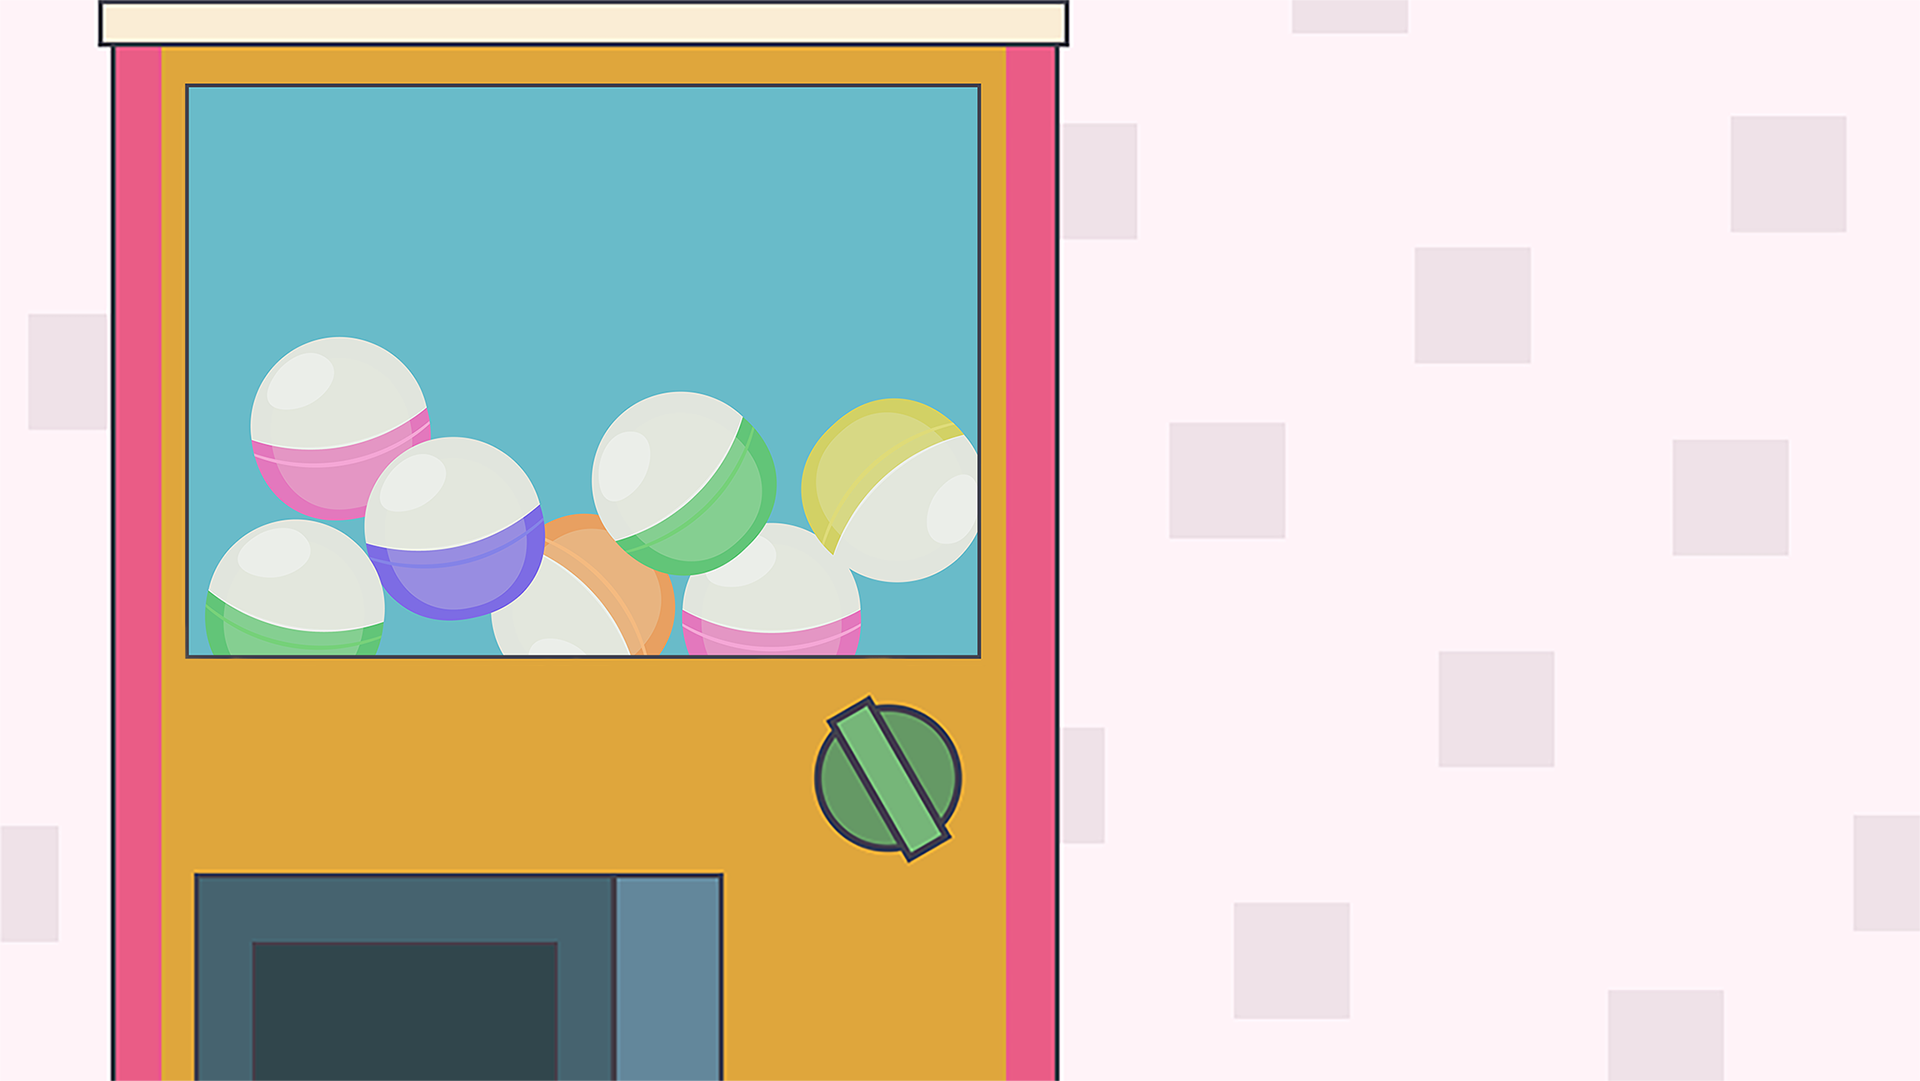
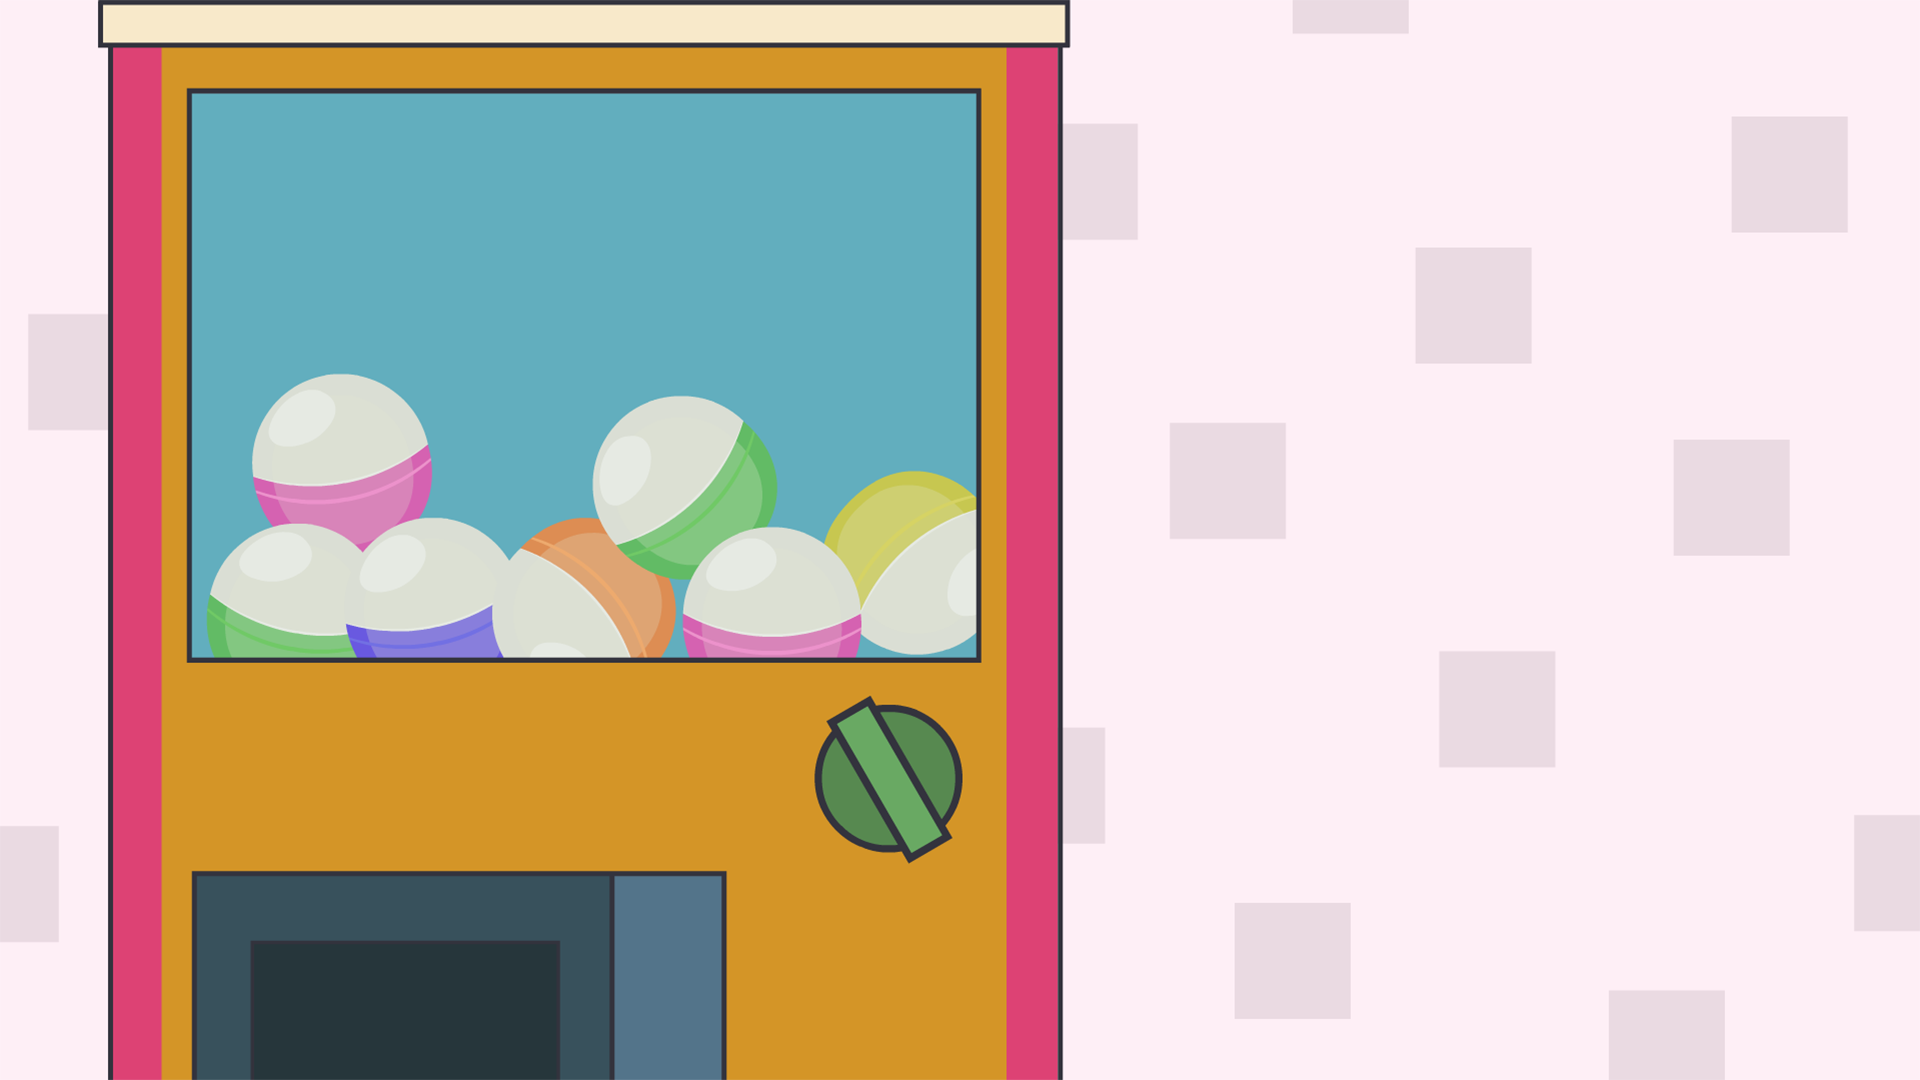
feat:  AnimationSprite as background

diff --git a/src/games/game_26/scenes/GameScene.js b/src/games/game_26/scenes/GameScene.js
@@ -31,45 +31,43 @@ export default class GameScene extends BasicScene {
 
         //User need to press the Start Button to reach here, all audio need to be play after the first user touch event in mobile device.
 
-        this.buildBg('backgroundGamePlay');
+        // this.buildBg('backgroundGamePlay');
+        this.eggTwistingMachineSprite = new GameSprite(this, 960, 540, 'eggTwistingMachineTexture');
         this.progressLoader = new LoadProgress(this);
 
         const soundFiles = {
-            "voice0":require("../assets/audio/voice/0.mp3"),
-            "voice1":require("../assets/audio/voice/1.mp3"),
-            "voice2":require("../assets/audio/voice/2.mp3"),
-            "voice3":require("../assets/audio/voice/3.mp3"),
-            "voice4":require("../assets/audio/voice/4.mp3"),
-            "voice5":require("../assets/audio/voice/5.mp3"),
-            "voice6":require("../assets/audio/voice/6.mp3"),
-            "voice7":require("../assets/audio/voice/7.mp3"),
-            "voice8":require("../assets/audio/voice/8.mp3"),
-            "voice9":require("../assets/audio/voice/9.mp3"),
-            "voice10":require("../assets/audio/voice/10.mp3"),
-            "voice11":require("../assets/audio/voice/11.mp3"),
-            "voice12":require("../assets/audio/voice/12.mp3"),
-            "voice13":require("../assets/audio/voice/13.mp3"),
-            "voice14":require("../assets/audio/voice/14.mp3"),
-            "voice15":require("../assets/audio/voice/15.mp3"),
-            "voice16":require("../assets/audio/voice/16.mp3"),
-            "voice17":require("../assets/audio/voice/17.mp3"),
-            "voice18":require("../assets/audio/voice/18.mp3"),
-            "voice19":require("../assets/audio/voice/19.mp3"),
+            "voice0": require("../assets/audio/voice/0.mp3"),
+            "voice1": require("../assets/audio/voice/1.mp3"),
+            "voice2": require("../assets/audio/voice/2.mp3"),
+            "voice3": require("../assets/audio/voice/3.mp3"),
+            "voice4": require("../assets/audio/voice/4.mp3"),
+            "voice5": require("../assets/audio/voice/5.mp3"),
+            "voice6": require("../assets/audio/voice/6.mp3"),
+            "voice7": require("../assets/audio/voice/7.mp3"),
+            "voice8": require("../assets/audio/voice/8.mp3"),
+            "voice9": require("../assets/audio/voice/9.mp3"),
+            "voice10": require("../assets/audio/voice/10.mp3"),
+            "voice11": require("../assets/audio/voice/11.mp3"),
+            "voice12": require("../assets/audio/voice/12.mp3"),
+            "voice13": require("../assets/audio/voice/13.mp3"),
+            "voice14": require("../assets/audio/voice/14.mp3"),
+            "voice15": require("../assets/audio/voice/15.mp3"),
+            "voice16": require("../assets/audio/voice/16.mp3"),
+            "voice17": require("../assets/audio/voice/17.mp3"),
+            "voice18": require("../assets/audio/voice/18.mp3"),
+            "voice19": require("../assets/audio/voice/19.mp3"),
         }
         this.preloadFromArr({ sound: soundFiles });
     }
 
-    create() {
-
-        super.create();
-
+    create(data) {
+        console.log(data);
         this.sys.game.globals.gtag.event(`game_${this.sys.game.globals.gameStageIndex}_start`, { 'event_category': 'js_games', 'event_label': 'Game Start' });
 
         createEggTwistingMachineAnimation(this.anims);
         createStarAnimation(this.anims);
 
-        this.paintGameScene();
-
+        this.paintGameScene(data);
     }
 
 
@@ -109,29 +107,27 @@ export default class GameScene extends BasicScene {
      * paint all game ui element in this scene
      * 绘制GameScene的所有Ui元素
      */
-    paintGameScene() {
+    paintGameScene(data) {
 
         this.gameLayer = this.add.layer().setDepth(1);
         this.uiLayer = this.add.layer().setDepth(0);
 
         this.answerArea = new AnswerArea(this, this.generateQuestion());
 
-        let eggTwistingMachineSprite = new GameSprite(this, 960, 540, 'eggTwistingMachineTexture');
-
         if (this.hasGameChance == undefined) {
-            this.playEggAnimation(eggTwistingMachineSprite, this.answerArea, this.questionIndex);
+            this.playEggAnimation(this.eggTwistingMachineSprite, this.answerArea, this.questionIndex);
         } else {
             if (this.hasGameChance) {
                 this.add.image(583, 372, 'questionPicture' + this.questionIndex).setScale(0.5);
-                this.answerArea.showDisplay();
+                this.answerArea.showDisplay(data);
             }
             else {
-                this.playEggAnimation(eggTwistingMachineSprite, this.answerArea, this.questionIndex);
+                this.playEggAnimation(this.eggTwistingMachineSprite, this.answerArea, this.questionIndex);
             }
         }
 
 
-        this.uiLayer.add([this.buildBg('backgroundGamePlay'), eggTwistingMachineSprite]);
+        this.uiLayer.add([this.buildBg('backgroundGamePlay'), this.eggTwistingMachineSprite]);
         this.gameLayer.add([this.answerArea]);
     }
 
@@ -195,41 +191,53 @@ export default class GameScene extends BasicScene {
     }
 
     paintGameSuccess() {
-        GameManager.getInstance().updateGameQuestionNumberList(this.questionIndex);
-        GameManager.getInstance().updateGamePlayTotal((value) => {
-            this.time.addEvent({
-                delay: 10000,
-                callback: () => this.scene.start(value ? 'Game' : 'End')
-            })
-        });
-
-
         this.sound.play('answerCorrectEffectSound');
-        this.sound.play('gameWinEffectSound')
-        this.sound.play('voice' + this.questionIndex);
+
+        const gameWinEffectSound = this.sound.add('gameWinEffectSound');
+        const questionIndexVoice = this.sound.add('voice' + this.questionIndex);
+
+        gameWinEffectSound.once('complete', () => {
+            questionIndexVoice.play();
+        })
+
+        questionIndexVoice.once('complete', () => {
+            GameManager.getInstance().updateGameQuestionNumberList(this.questionIndex);
+            GameManager.getInstance().updateGamePlayTotal((value) => {
+                this.scene.start(value ? 'Game' : 'End');
+            });
+        })
+
+        gameWinEffectSound.play();
     }
 
 
     paintGameFailed() {
+        const answerErrorEffectSound = this.sound.add('answerErrorEffectSound');
 
-        let _isFirstError = null;
+        answerErrorEffectSound.once('complete', () => {
+            GameManager.getInstance().setGameQuestionError(this.questionIndex, (isFirstError, value) => {
+                if (!isFirstError) {
+                    const gameLoseEffectSound = this.sound.add('gameLoseEffectSound');
 
-        GameManager.getInstance().setGameQuestionError(this.questionIndex, (isFirstError, value) => {
+                    gameLoseEffectSound.once('complete', () => {
+                        const questionIndexVoice = this.sound.add('voice' + this.questionIndex);
 
-            _isFirstError = isFirstError;
-            console.log({ isLastQuestion: value })
-            this.time.addEvent({
-                delay: isFirstError ? 2000 : 10000,
-                callback: () => value ? this.scene.start('End') : this.scene.restart('Game')
-            });
-        }
-        );
+                        questionIndexVoice.once('complete', () => {
+                            value ? this.scene.start('End') : this.scene.restart('Game');
+                        })
+                        this.answerArea.showCurrentAnswer(this, questionIndexVoice);
+                    });
 
-        this.sound.play('answerErrorEffectSound');
-        if (!_isFirstError) {
-            this.sound.play('gameLoseEffectSound');
-            this.answerArea.showCurrentAnswer(this, this.questionIndex);
-        }
+                    gameLoseEffectSound.play();
+                }
+                else {
+                    value ? this.scene.start('End') : this.scene.restart({ y: 140 });
+                }
+            }
+            );
+        })
+
+        answerErrorEffectSound.play();
     }
 
 

diff --git a/src/games/game_26/components/AnswerArea.js b/src/games/game_26/components/AnswerArea.js
@@ -40,8 +40,6 @@ export default class AnswerArea extends Phaser.GameObjects.Container {
 
         points = this.ShufflePosition(points);
 
-        // console.log({ points })
-
         let container = scene.add.container(0, 1200);
 
         const prepositionIndexPosition = phrases.indexOf(preposition);
@@ -50,11 +48,6 @@ export default class AnswerArea extends Phaser.GameObjects.Container {
         let phraseLabelBoxPoints = Array.from(points);
         phrases.splice(prepositionIndexPosition, 1);
         phraseLabelBoxPoints.splice(prepositionIndexPosition, 1);
-
-        // console.log({phrases})
-        // console.log({ points: points })
-        // console.log({ prepositionLabelBoxPoint: prepositionLabelBoxPoint })
-        // console.log({ phraseLabelBoxPoints: phraseLabelBoxPoints });
 
         if (prepositionLabelBoxPoint != null) {
             container.add(new PrepositionLabelBox(scene, prepositionLabelBoxPoint, preposition, this.textStyle, gameObject));
@@ -117,16 +110,16 @@ export default class AnswerArea extends Phaser.GameObjects.Container {
         });
     }
 
-    showDisplay() {
+    showDisplay(data) {
         this.answerPanel.setPosition(1000, 900);
-        this.phraseLabelsContainer.setPosition(0, 0);
+        this.phraseLabelsContainer.setPosition(0, data.y);
 
         this.SetEnableInput();
     }
 
-    showCurrentAnswer(scene,questionIndex) {
+    showCurrentAnswer(scene,questionIndexVoice) {
         console.log("showCurrentAnswer");
-        this.answerPanel.setCurrentAnswer(scene,questionIndex)
+        this.answerPanel.setCurrentAnswer(scene,questionIndexVoice)
     }
 
     SetEnableInput() {

diff --git a/src/games/game_26/components/AnswerPanel.js b/src/games/game_26/components/AnswerPanel.js
@@ -88,8 +88,6 @@ export default class AnswerPanel extends Phaser.GameObjects.Container {
             new GameSprite(scene, this.labelText.x + this.labelText.displayWidth / 2, this.labelText.y, 'uiError');
         errorSprite.setScale(0.8);
 
-        console.log("errorSprite:%o", this.errorSprite);
-
         scene.time.addEvent({
             delay: 2000,
             callback: () => {
@@ -118,12 +116,12 @@ export default class AnswerPanel extends Phaser.GameObjects.Container {
         })
     }
 
-    setCurrentAnswer(scene,questionIndex) {
+    setCurrentAnswer(scene,questionIndexVoice) {
 
         scene.time.addEvent({
             delay: 2000,
             callback: () => {
-                this.scene.sound.play("voice"+questionIndex);
+                questionIndexVoice.play();
                 this._text = this._answer;
                 this.labelText.setText(this._text);
             },
